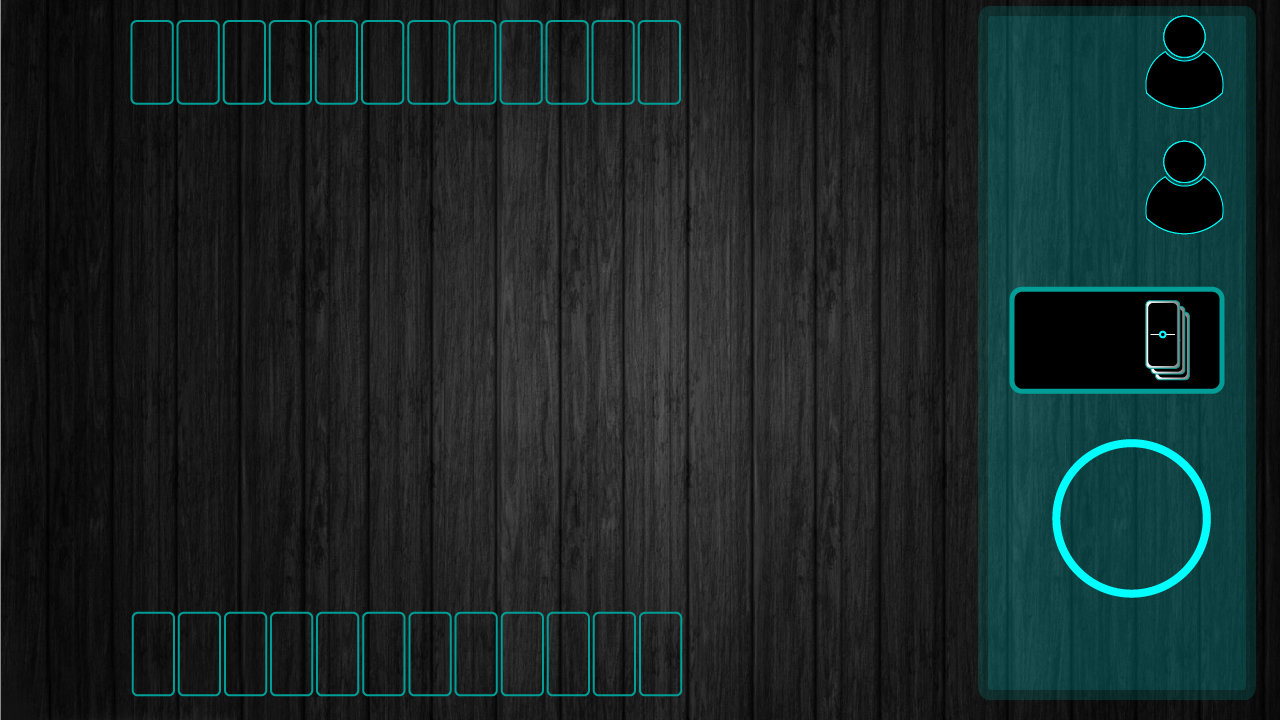
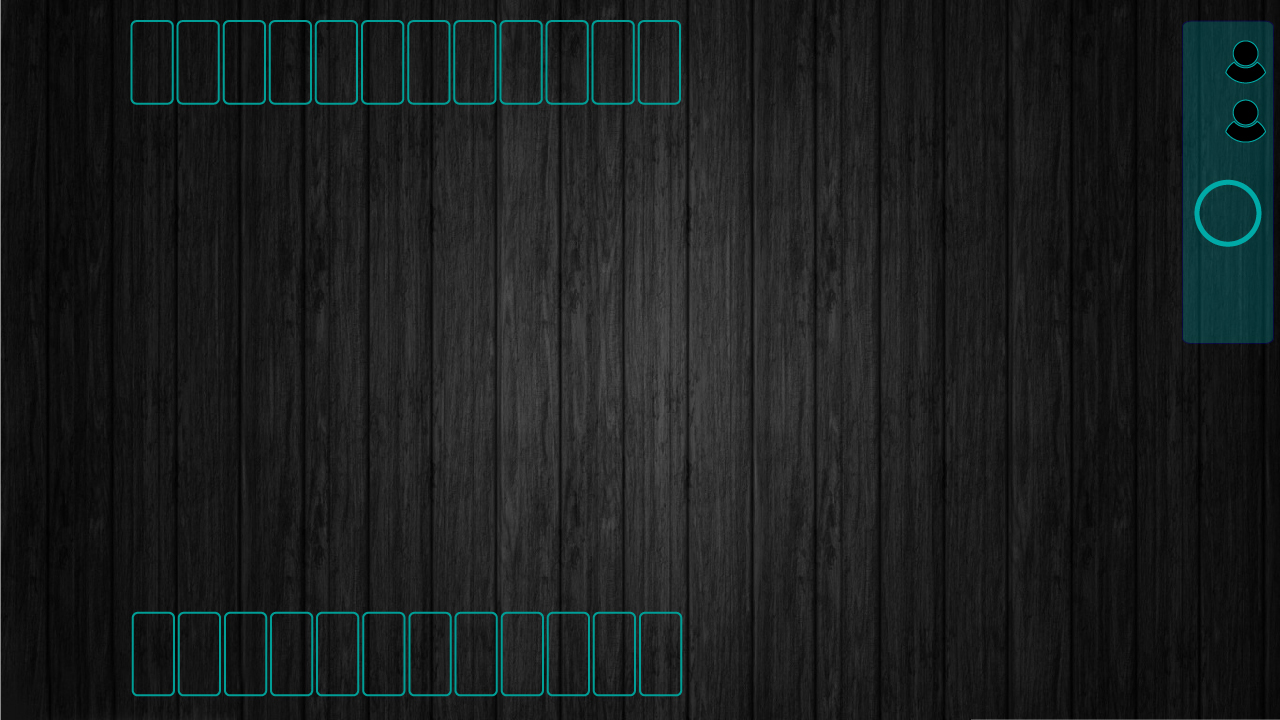
lo qe falta es nada

Changed region(s): [[0.75, 0.0, 1.0, 0.9778]]

diff --git a/src/domino/Domino.java b/src/domino/Domino.java
@@ -51,7 +51,9 @@ public class Domino extends JFrame {
 	int colocarComidaxcasa = 46;
 	Jugador turno =new Jugador(null);
 	Ficha ultimaFichaIzq;
-	Ficha ultimaFichaDer=new Ficha(0,0);
+	Ficha ultimaFichaDer;
+	int ultimaFichaIzqLadoLibre;
+	int ultimaFichaDerLadoLibre;
 
 	// private BufferedImage bufferFondo = null;
 	// private JLabel centralLabel;
@@ -165,7 +167,7 @@ public class Domino extends JFrame {
 			cual.setIcon(new ImageIcon("src/fichasLeft/" + cual.getLado1() + cual.getLado2() + ".png"));
 		}
 		if (orientacion == "der") {
-			cual.setIcon(new ImageIcon("src/fichasRight/" + cual.getLado1() + cual.getLado2() + ".png"));
+			cual.setIcon(new ImageIcon("src/fichasRight/"+ cual.getLado1() + cual.getLado2() + ".png"));
 		}
 		actualizar();
 	}
@@ -188,15 +190,15 @@ public class Domino extends JFrame {
 
 	}
 	public void organizarFichasParaComer() {
-		int posicionInicialx = 880;
-		int posicionInicialy = 40;
+		int posicionInicialx = 1085;
+		int posicionInicialy = 25;
 		int permutador = 0;
 		for (int i = 0; i < baraja.getBaraja().size() / 2; i++) {
 			for (int cual = permutador; cual < permutador + baraja.getBaraja().size() / 7; cual++) {
 				baraja.getBaraja().get(cual).setBounds(posicionInicialx, posicionInicialy, 43, 85);
 				posicionInicialx += 48;
 			}
-			posicionInicialx = 880;
+			posicionInicialx = 1085;
 			permutador += 2;
 			posicionInicialy += 89;
 		}
@@ -317,80 +319,166 @@ public class Domino extends JFrame {
 
 	public void jugar(Jugador quien, Ficha cual, String lado) {
 
-		//si estamos empezando
+		String mensaje = null;
+		// si estamos empezando
 		if (estaEn(cual, quien.getJuego()) == true && turno == quien) {
 			actualizar();
 			if (mesa.isEmpty())
-				lado="centro";
-			if (mesa.isEmpty()&& lado== "centro") {
+				lado = "centro";
+			if (mesa.isEmpty() && lado == "centro") {
 				if (cual.getLado1() != cual.getLado2()) {
 					rotar(cual, "izq");
 					cual.setBounds(450, 300, cual.getBounds().width, cual.getBounds().height);
 					ultimaFichaIzq = cual;
 					ultimaFichaDer = cual;
-				}
-				else if (cual.getLado1() == cual.getLado2()){
-				cual.setBounds(450, 300, cual.getBounds().width, cual.getBounds().height);
-				ultimaFichaIzq = cual;
-				ultimaFichaDer = cual;
+					ultimaFichaIzqLadoLibre = cual.getLado2();
+					ultimaFichaDerLadoLibre = cual.getLado1();
+				} else if (cual.getLado1() == cual.getLado2()) {
+					cual.setBounds(450, 300, cual.getBounds().width, cual.getBounds().height);
+					ultimaFichaIzq = cual;
+					ultimaFichaDer = cual;
+					ultimaFichaIzqLadoLibre = cual.getLado1();
+					ultimaFichaDerLadoLibre = cual.getLado1();
 				}
 			}
-			
 
-			//jugar por la izquierda
+			// jugar por la izquierda
 			if (lado == "izq") {
-				if (ultimaFichaIzq.getBounds().width == cual.getBounds().width) {
-					rotar(cual, "izq");
-					cual.setBounds(ultimaFichaIzq.getBounds().x-(cual.getBounds().width+1),ultimaFichaIzq.getBounds().y + 21, cual.getBounds().width,
-							cual.getBounds().height);
-					ultimaFichaIzq = cual;
-					
-					
-				} else if (ultimaFichaIzq.getBounds().width == cual.getBounds().height
-						&& cual.getLado1() != cual.getLado2()) {
-					rotar(cual, "izq");
-					cual.setBounds(ultimaFichaIzq.getBounds().x - (cual.getBounds().width + 1),
-							ultimaFichaIzq.getBounds().y, cual.getBounds().width, cual.getBounds().height);
-					ultimaFichaIzq = cual;
-					
-					
-				} else if (ultimaFichaIzq.getBounds().width == cual.getBounds().height && cual.getLado1() == cual.getLado2()) {
-					cual.setBounds(ultimaFichaIzq.getBounds().x - (cual.getBounds().width + 1),
-							ultimaFichaIzq.getBounds().y-20, cual.getBounds().width, cual.getBounds().height);
-					ultimaFichaIzq = cual;
+
+				if (cual.getLado1() == ultimaFichaIzqLadoLibre || cual.getLado2() == ultimaFichaIzqLadoLibre) {
+
+					if (ultimaFichaIzq.getBounds().width == cual.getBounds().width) {
+
+						if (cual.getLado1() == ultimaFichaIzqLadoLibre)
+							rotar(cual, "izq");
+						else if (cual.getLado2() == ultimaFichaIzqLadoLibre)
+							rotar(cual, "der");
+
+						cual.setBounds(ultimaFichaIzq.getBounds().x - (cual.getBounds().width + 1),
+								ultimaFichaIzq.getBounds().y + 21, cual.getBounds().width, cual.getBounds().height);
+						ultimaFichaIzq = cual;
+
+						if (cual.getLado1() == ultimaFichaIzqLadoLibre)
+							ultimaFichaIzqLadoLibre = cual.getLado2();
+						else if (cual.getLado2() == ultimaFichaIzqLadoLibre)
+							ultimaFichaIzqLadoLibre = cual.getLado1();
+
+					}
+					if (ultimaFichaIzq.getBounds().width == cual.getBounds().height
+							&& cual.getLado1() != cual.getLado2()) {
+
+						if (cual.getLado1() == ultimaFichaIzqLadoLibre)
+							rotar(cual, "izq");
+						else if (cual.getLado2() == ultimaFichaIzqLadoLibre)
+							rotar(cual, "der");
+
+						cual.setBounds(ultimaFichaIzq.getBounds().x - (cual.getBounds().width + 1),
+								ultimaFichaIzq.getBounds().y, cual.getBounds().width, cual.getBounds().height);
+						ultimaFichaIzq = cual;
+
+						if (cual.getLado1() == ultimaFichaIzqLadoLibre)
+							ultimaFichaIzqLadoLibre = cual.getLado2();
+						else if (cual.getLado2() == ultimaFichaIzqLadoLibre)
+							ultimaFichaIzqLadoLibre = cual.getLado1();
+
+					}
+					if (ultimaFichaIzq.getBounds().width == cual.getBounds().height
+							&& cual.getLado1() == cual.getLado2()) {
+
+						cual.setBounds(ultimaFichaIzq.getBounds().x - (cual.getBounds().width + 1),
+								ultimaFichaIzq.getBounds().y - 20, cual.getBounds().width, cual.getBounds().height);
+						ultimaFichaIzq = cual;
+
+						if (cual.getLado1() == ultimaFichaIzqLadoLibre)
+							ultimaFichaIzqLadoLibre = cual.getLado2();
+						else if (cual.getLado2() == ultimaFichaIzqLadoLibre)
+							ultimaFichaIzqLadoLibre = cual.getLado1();
+					}
+
+				} else {
+
+					JOptionPane.showMessageDialog(null, "no puese jugar esa ficha por la izquierda");
+					mensaje = "no puese jugar esa ficha por la izquierda";
+
 				}
+
 			}
-			//jugarPorLa derecha
+
+			// jugarPorLa derecha
 
 			if (lado == "der") {
-				if (ultimaFichaDer.getBounds().width == cual.getBounds().width) {
-					rotar(cual, "izq");
-					cual.setBounds(ultimaFichaDer.getBounds().x+(cual.getBounds().height+1),ultimaFichaDer.getBounds().y + 21, cual.getBounds().width,
-							cual.getBounds().height);
-					ultimaFichaDer = cual;
+				if (cual.getLado1() == ultimaFichaDerLadoLibre || cual.getLado2() == ultimaFichaDerLadoLibre) {
+
+					// si las fichas tienen la misma orientacion
+
+					if (ultimaFichaDer.getBounds().width == cual.getBounds().width) {
+
+						if (cual.getLado1() == ultimaFichaDerLadoLibre)
+							rotar(cual, "der");
+						else if (cual.getLado2() == ultimaFichaDerLadoLibre)
+							rotar(cual, "izq");
+
+						cual.setBounds(ultimaFichaDer.getBounds().x + (cual.getBounds().height + 1),
+								ultimaFichaDer.getBounds().y + 21, cual.getBounds().width, cual.getBounds().height);
+						ultimaFichaDer = cual;
+
+						if (cual.getLado1() == ultimaFichaDerLadoLibre)
+							ultimaFichaDerLadoLibre = cual.getLado2();
+						else if (cual.getLado2() == ultimaFichaDerLadoLibre)
+							ultimaFichaDerLadoLibre = cual.getLado1();
+
+					}
+					if (ultimaFichaDer.getBounds().width == cual.getBounds().height
+							&& cual.getLado1() != cual.getLado2()) {
+
+						if (cual.getLado1() == ultimaFichaDerLadoLibre)
+							rotar(cual, "ider");
+						else if (cual.getLado2() == ultimaFichaDerLadoLibre)
+							rotar(cual, "izq");
+
+						cual.setBounds(ultimaFichaDer.getBounds().x + (cual.getBounds().width + 1),
+								ultimaFichaDer.getBounds().y, cual.getBounds().height, cual.getBounds().width);
+						ultimaFichaDer = cual;
+
+						if (cual.getLado1() == ultimaFichaDerLadoLibre)
+							ultimaFichaDerLadoLibre = cual.getLado2();
+						else if (cual.getLado2() == ultimaFichaDerLadoLibre)
+							ultimaFichaDerLadoLibre = cual.getLado1();
+
+					}
 					
-					
-				} else if (ultimaFichaDer.getBounds().width == cual.getBounds().height
-						&& cual.getLado1() != cual.getLado2()) {
-					rotar(cual, "izq");
-					cual.setBounds(ultimaFichaDer.getBounds().x + (cual.getBounds().width + 1),
-							ultimaFichaDer.getBounds().y, cual.getBounds().width, cual.getBounds().height);
-					ultimaFichaDer = cual;
-					
-					
-				} else if (ultimaFichaDer.getBounds().width == cual.getBounds().height && cual.getLado1() == cual.getLado2()) {
-					cual.setBounds(ultimaFichaDer.getBounds().x + (cual.getBounds().height + 1),
-							ultimaFichaDer.getBounds().y-20, cual.getBounds().width, cual.getBounds().height);
-					ultimaFichaDer = cual;
+					if (ultimaFichaDer.getBounds().width == cual.getBounds().height
+							&& cual.getLado1() == cual.getLado2()) {
+
+						cual.setBounds(ultimaFichaDer.getBounds().x + (cual.getBounds().height + 1),
+								ultimaFichaDer.getBounds().y - 20, cual.getBounds().width, cual.getBounds().height);
+						ultimaFichaDer = cual;
+
+						if (cual.getLado1() == ultimaFichaDerLadoLibre)
+							ultimaFichaDerLadoLibre = cual.getLado2();
+						else if (cual.getLado2() == ultimaFichaDerLadoLibre)
+							ultimaFichaDerLadoLibre = cual.getLado1();
+					}
+
+				} else {
+
+					JOptionPane.showMessageDialog(null, "no puese jugar esa ficha por la derecha");
+					mensaje = "no puese jugar esa ficha por la derecha";
+
 				}
+
 			}
-
 		}
+		
 
+		if (mensaje!="no puese jugar esa ficha por la izquierda"&& mensaje!="no puese jugar esa ficha por la derecha") {
 		mesa.add(cual);
 		quien.getJuego().remove(cual);
 		organizar(quien);
 		actualizar();
+		}
+		
+		
 	}
 	
 	private class Escucha implements MouseListener {
